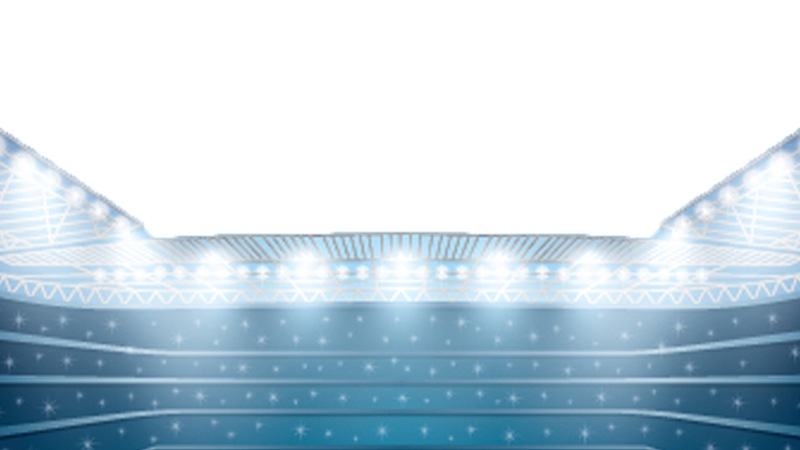
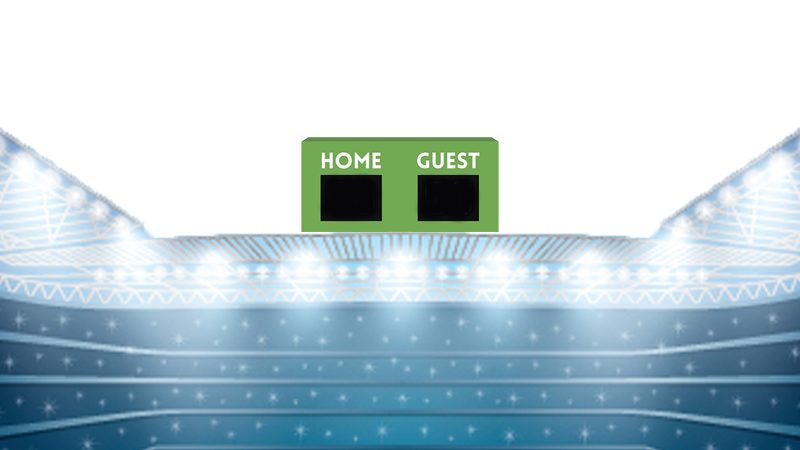
Update 14/02/2018

Changed region(s): [[0.375, 0.28, 0.625, 0.5289]]

diff --git a/js/code.js b/js/code.js
@@ -13,9 +13,9 @@ var time = 0,
     acumDelta = 0;
 
 //images references
-var player1Img, player2Img, coinImg, floorImg, background1Img, background2Img, goalImg;
+var player1Img, player2Img, coinImg, floorImg, background1Img, background2Img, goalImg, ballImg;
 
-var player1, player2, floor, background1, background2, goalL, goalR;
+var player1, player2, floor, background1, background2, goalL, goalR, ball;
 
 
 var coins = [];
@@ -48,8 +48,8 @@ function Init ()
         goalImg = new Image();
         goalImg.src = "./media/goal.png";
         
-        coinImg = new Image();
-        coinImg.src = "./media/coin.png";
+        ballImg = new Image();
+        ballImg.src = "./media/ball.png";
 
         floorImg = new Image();
         floorImg.src = "./media/grass.png";
@@ -75,11 +75,14 @@ function Start(){
 
 
     PreparePhysics(ctx);
-this.background1 = NewBackground({x: 0, y:0, width:900, height:900, img: background1Img, type: 'background1'});
+    
+    this.background1 = NewBackground({x: 0, y:0, width:900, height:900, img: background1Img, type: 'background1'});
+    
     this.background2 = NewBackground({x: 0, y: 0, width:800, height:450, img: background2Img, type: 'background2'});
     
     this.goalL = NewGoal({x: 670, y: 200, width: 167, height: 306, img: goalImg, type: 'goalL'});
     this.goalL.Start();
+    
      this.goalR = NewGoal({x: -130, y: 200, width: 167, height: 306, img: goalImg, type: 'goalR'});
     this.goalR.Start();
     
@@ -91,9 +94,8 @@ this.background1 = NewBackground({x: 0, y:0, width:900, height:900, img: backgro
 
     //player.Start();
 
-    var coin = NewCoin({x: 300, y: 160, score: 1});
-    coin.Start();
-    coins.push(coin);
+    ball = NewCoin({x: 300, y: 160, score: 1, img: ballImg});
+    ball.Start();
 
     
     
@@ -177,15 +179,19 @@ function Update ()
     background1.Update(deltaTime);
     player1.Update(deltaTime);
     player2.Update(deltaTime);
-
+    ball.Update(deltaTime);
 
     //Update Coins
-    for(var i = 0; i<coins.length; i++){
-        coins[i].Update(deltaTime);
-        if(coins[i].toDelete){
-            world.DestroyBody(coins[i].body);
-            coins.splice(i, 1);
-        }
+//    for(var i = 0; i<coins.length; i++){
+//        coins[i].Update(deltaTime);
+//        if(coins[i].toDelete){
+//            world.DestroyBody(coins[i].body);
+//            coins.splice(i, 1);
+//        }
+//    }
+    
+    if(ball.isGoal == true){
+        RestartGoal();
     }
 
 
@@ -210,8 +216,7 @@ function Draw ()
     background1.Draw(ctx);
     
     ctx.drawImage(background2.img, 0, 0, background2.width, background2.height);
-    //ctx.drawImage(goalImg, 0, 0, goalImg.width, goalImg.height,  );
-    //background2.Draw(ctx);
+
     ctx.restore();
 
     goalL.Draw(ctx);
@@ -222,14 +227,18 @@ function Draw ()
     player2.Draw(ctx);
 
     //Draw coins
-    for(var i = 0; i<coins.length; i++){
-        coins[i].Draw(ctx);
-    }
+//    for(var i = 0; i<coins.length; i++){
+//        coins[i].Draw(ctx);
+//    }
+    ctx.save();
+    ctx.restore();
+    ball.Draw(ctx);
     
     //Draw Score
-    ctx.fillStyle = "black";
-    ctx.font = "20px Comic Sans MS";
-    ctx.fillText('Score: ' + player1.score + " - " + player2.score, 650, 24);
+    ctx.fillStyle = "white";
+    ctx.font = "30px Comic Sans MS";
+    ctx.fillText(player1.score, 340, 210);
+    ctx.fillText(player2.score, 440, 210);
 
 
     // draw the FPS
@@ -255,16 +264,24 @@ function DrawWorld (world)
     ctx.restore();
 }
 
-function DeleteCoin(coin){
+//function DeleteCoin(coin){
+//
+////    var found = false;
+////    while(!found && i<coins.length){
+////        if(coins[i] == coin){
+////            found = true;
+////            coins.splice(i, 1);
+////        }else{
+////            i++;
+////        }
+////
+////    }
+//}
 
-    var found = false;
-    while(!found && i<coins.length){
-        if(coins[i] == coin){
-            found = true;
-            coins.splice(i, 1);
-        }else{
-            i++;
-        }
-
-    }
+function RestartGoal(){
+    
+    ball.position.x = 450;
+    ball.isGoal = false;
+    player1.position.x = 200;
+    player2.position.y = 500;
 }

diff --git a/js/coins.js b/js/coins.js
@@ -8,42 +8,16 @@ function NewCoin(options) {
 
 		score: options.score || 1,
 
-		toDelete: false,
-
-		animation:{
-			img: coinImg,
-			timePerFrame: 1/24,
-			currentFrametime: 0,
-			frameWidth: 100,
-			frameHeight: 100,
-			actualX: 0,
-
-			Update: function(deltaTime){
-				this.currentFrametime += deltaTime;
-				if(this.currentFrametime >= this.timePerFrame){
-					this.actualX+=this.frameWidth;
-					if(this.actualX > 999){
-						this.actualX = 0;
-					}
-					this.currentFrametime = 0.0;
-				}
-			},
-
-			Draw: function(ctx){
-				ctx.drawImage(this.img, this.actualX, 0, 
-				this.frameWidth, this.frameHeight, 
-				-this.frameWidth/2, -this.frameHeight/2,
-				this.frameWidth, this.frameHeight);
-			}
-		},
+        isGoal: false,
+        img: options.img,
 
 		physicsInfo: {
-			density: 1.0,
-            friction: 0.5,
+			density: 100000.0,
+            friction: 100000,
 			fixedRotation: true,
-			linearDamping: 0.0,
-            angularDamping: 0.0,
-            restitution: 0.5,
+			linearDamping: 100000.0,
+            angularDamping: 10000.0,
+            restitution: 10000.0,
 			type: b2Body.b2_dynamicBody
 		},
 
@@ -56,17 +30,23 @@ function NewCoin(options) {
 		},
 
 		Update: function(deltaTime){
-			this.animation.Update(deltaTime);
+			//this.animation.Update(deltaTime);
 		},
 
 		Draw: function(ctx){
-			var bodyPosition = this.body.GetPosition();
+           var bodyPosition = this.body.GetPosition();
 			var posX = bodyPosition.x * scale;
 			var posY = Math.abs((bodyPosition.y * scale) - ctx.canvas.height);
+			
 			ctx.save();
+			
 			ctx.translate(posX, posY);
 			ctx.scale(this.imgScale, this.imgScale);
-			this.animation.Draw(ctx);
+			
+			ctx.drawImage(this.img,
+				-this.width * scale*2,
+				-this.height * scale*2,
+				this.width * scale * 4 , this.height * scale * 4 );
 			ctx.restore();
 		}
 	}

diff --git a/js/physics_aux.js b/js/physics_aux.js
@@ -151,7 +151,7 @@ function OnContactDetected (contact)
             console.log("Contacto! " + a.type + " + " + b.type);
             var coin = (a.type == "coin") ? a : b;
             player2.score += coin.score;
-            ResetGame(coin);
+            coin.isGoal = true;
             //Delete
             //coin.toDelete = true;
         }
@@ -162,7 +162,7 @@ function OnContactDetected (contact)
             console.log("Contacto! " + a.type + " + " + b.type);
             var coin = (a.type == "coin") ? a : b;
             player1.score += coin.score;
-
+            coin.isGoal = true;
             //Delete
             //coin.toDelete = true;
         }

diff --git a/js/player.js b/js/player.js
@@ -3,8 +3,8 @@ function NewPlayer(x, y, image, type) {
 return {
 	type: type,
 	position:{x: x, y: y},
-	width: 0.75,
-	height: 0.55,
+	width: 0.37,
+	height: 0.27,
 
 
 	isGoingLeft: false,
@@ -46,8 +46,8 @@ return {
 		Draw: function(ctx){
 			ctx.drawImage(this.img, this.actualX, this.actualY, 
 				this.frameWidth, this.frameHeight, 
-				-this.frameWidth/4, -this.frameHeight/4,
-				this.frameWidth/2, this.frameHeight/2);
+				-this.frameWidth/8, -this.frameHeight/8,
+				this.frameWidth/4, this.frameHeight/4);
 		}
 	},
 
